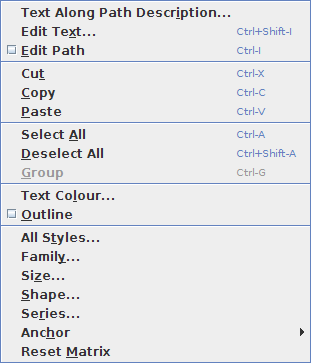
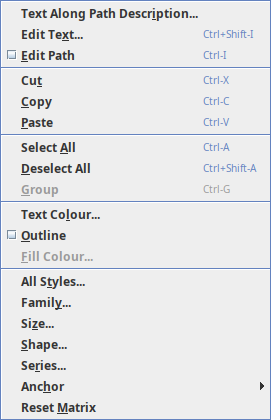
finished select popup menu section

Changed region(s): [[0.0, 0.0, 1.0, 1.0], [0.9446, 0.9091, 0.9742, 0.9394]]

diff --git a/src/doc/en/flowframtk-main.tex b/src/doc/en/flowframtk-main.tex
@@ -627,9 +627,9 @@ Cut selected \gls{object} &
 \mnemonictrail{edit.cut}
 \tabularnewline
 %
-\accelerator{edit.path.style.all} &
+\accelerator{edit.path.style.all_styles} &
 Edit the selected paths' line styles &
-\mnemonictrail{edit.path.style.all}
+\mnemonictrail{edit.path.style.all_styles}
 \tabularnewline
 %
 \accelerator{transform.scale} &
@@ -3621,14 +3621,66 @@ In select mode, you can also \gls{menuclick} to activate the
 selection \gls{popupmenu}. The contents of this menu vary according to
 what types of \glspl*{object} have been selected, if any.
 
+% COMMON POPUP MENU ITEMS
+
+\menudef{index.menu.selected}
+
+Common popup menu items are listed below.
+
+\menudef{menu.selected.object_description}
+
+To assign a description to the selected \gls{object}, use
+\menu{selected.object_description}. This is the same as using the
+\menu{edit.object_description} menu item from the main menu bar.
+This option will only be available if there is exactly one
+\gls{object} selected.
+
+\menudef{menu.selected.cut}
+
+Cut the selected \gls{object} (or \glspl{object}) to the clipboard.
+This is the same as using the \menu{edit.cut} menu item from the
+main menu bar. At least one \gls{object} needs to be selected.
+
+\menudef{menu.selected.copy}
+
+Copy the selected \gls{object} (or \glspl{object}) to the clipboard.
+This is the same as using the \menu{edit.copy} menu item from the
+main menu bar. At least one \gls{object} needs to be selected.
+
+\menudef{menu.selected.paste}
+
+Paste any \gls{object} or \glspl{object} from the clipboard onto the
+\gls{canvas}.
+This is the same as using the \menu{edit.paste} menu item from the
+main menu bar.
+
+\menudef{menu.selected.select_all}
+
+Select all \glspl{object}.
+This is the same as using the \menu{edit.select_all} menu item from the
+main menu bar.
+
+\menudef{menu.selected.deselect_all}
+
+Deselect all \glspl{object}.
+This is the same as using the \menu{edit.deselect_all} menu item from the
+main menu bar. There must be at least one \gls{object} selected.
+
+\menudef{menu.selected.group}
+
+Group all selected \glspl{object}. There must be more than one
+object selected.
+This is the same as using the \menu{transform.group} menu item from the
+main menu bar.
+
 % NONE SELECTED POPUP
 
-\menudef{index.none}
+\menudef{index.menu.none}
 
 \FloatFig
   {fig:selectpopups.none}
   {\includeimg{selectPopupNone}}
-  {Popup Menu when no Objects are Selected},
+  {Popup Menu When No Objects are Selected}
 
 If nothing is selected, there will only be a few options available
 (\figureref{fig:selectpopups.none}).
@@ -3648,7 +3700,10 @@ To select an \gls{object} by its description, use
 \menudef{menu.none.insert_bitmap}
 
 To insert a \gls{bitmap}, use \menu{none.insert_bitmap}. This
-is the same as using the \menu{bitmap.insert} menu item.
+is the same as using the \menu{bitmap.insert} menu item from the main menu bar.
+
+The \menu{selected.select_all} and \menu{selected.paste} common menu
+items are also available.
 
 % PATH POPUP
 
@@ -3657,23 +3712,16 @@ is the same as using the \menu{bitmap.insert} menu item.
 \FloatFig
   {fig:selectpopups.path}
   {\includeimg{selectPopupPath}}
-  {Popup Menu when only Paths are Selected},
+  {Popup Menu when only Paths are Selected}
 
-If a path is selected, the following options will be available
+In addition to the \gls{index.menu.selected},
+if a path is selected then the following options will be available
 (\figureref{fig:selectpopups.path}).
-
-\menudef{menu.selectedpath.path_description}
-
-To assign a description to the path, use
-\menu{selectedpath.path_description}. This is the same as using the
-\menu{edit.object_description} menu item from the main menu bar.
-This option won't be available if there is more than one
-path selected.
 
 \menudef{menu.selectedpath.edit}
 
 To edit the path, use \menu{selectedpath.edit}. This is the same as using
-the \menu{edit.edit.path.edit} menu item from the main menu bar.
+the \menu{edit.path.edit} menu item from the main menu bar.
 This option won't be available if there is more than one
 path selected.
 
@@ -3688,7 +3736,7 @@ path selected.
 
 To change the path's line \manmsg{colour}, use
 \menu{selectedpath.line_colour}. This is the same as using the
-\menu{edit.line_colour} menu item from the main menu bar.
+\menu{edit.path.line_colour} menu item from the main menu bar.
 
 \menudef{menu.selectedpath.fill_colour}
 
@@ -3708,11 +3756,11 @@ To change the line width for the selected paths,
 use \menu{selectedpath.linewidth}. This is the same as using the
 \menu{edit.path.style.linewidth} menu item from the main menu bar.
 
-\menudef{menu.selectedpath.pattern}
+\menudef{menu.selectedpath.dashpattern}
 
 To change the line pattern (dash or solid) for the selected paths,
-use \menu{selectedpath.pattern}. This is the same as using the
-\menu{edit.path.style.pattern} menu item from the main menu bar.
+use \menu{selectedpath.dashpattern}. This is the same as using the
+\menu{edit.path.style.dashpattern} menu item from the main menu bar.
 
 \menudef{menu.selectedpath.capstyle}
 
@@ -3766,18 +3814,11 @@ use \menu{selectedpath.marker.end}. This is the same as using the
 \FloatFig
   {fig:selectpopups.text}
   {\includeimg{selectPopupText}}
-  {Popup Menu when only Text-Areas are Selected},
+  {Popup Menu when only Text-Areas are Selected}
 
-If a \gls{textarea} is selected, the following options will be available
+In addition to the \gls{index.menu.selected},
+if a \gls{textarea} is selected then the following options will be available
 (\figureref{fig:selectpopups.text}).
-
-\menudef{menu.selectedtext.textarea_description}
-
-To assign a description to the \gls{textarea}, use
-\menu{selectedtext.textarea_description}. This is the same as using the
-\menu{edit.object_description} menu item from the main menu bar.
-This option won't be available if there is more than one
-\gls{textarea} selected.
 
 \menudef{menu.selectedtext.edit}
 
@@ -3849,6 +3890,8 @@ bar.
 To reset the \gls{textarea}['s] transformation matrix, use 
 \menu{selectedtext.reset}. This is the same as using the 
 \menu{transform.reset} menu item from the main menu bar.
+This option won't be available if there is more than one
+\gls{textarea} selected.
 
 % TEXT-PATH POPUP
 
@@ -3857,16 +3900,14 @@ To reset the \gls{textarea}['s] transformation matrix, use
 \FloatFig
   {fig:selectpopups.textpath}
   {\includeimg{selectPopupTextPath}}
-  {Popup Menu when only a Text-Path is Selected},
+  {Popup Menu when a Text-Path is Selected}
 
-If a text-path is selected, the following option will be available
-(\figureref{fig:selectpopups.textpath}).
 
-\menudef{menu.selectedtextpath.textpath_description}
-
-To assign a description to the text-path, use
-\menu{selectedtextpath.textpath_description}. This is the same as using the
-\menu{edit.object_description} menu item from the main menu bar.
+If a text-path has been selected then the
+\gls{index.menu.selectedtextpath} is very similar to the
+\gls{index.menu.selectedtext} but additionally has the
+\menu{selectedpath.edit} menu item to switch on edit mode for the
+underlying path.
 
 % BITMAP POPUP
 
@@ -3875,20 +3916,13 @@ To assign a description to the text-path, use
 \FloatFig
   {fig:selectpopups.bitmap}
   {\includeimg{selectPopupBitmap}}
-  {Popup Menu when only Bitmaps are Selected},
+  {Popup Menu when only Bitmaps are Selected}
 
-If a \gls{bitmap} is selected, the following options will be available
+In addition to the \gls{index.menu.selected},
+if a \gls{bitmap} is selected then the following options will be available
 (\figureref{fig:selectpopups.bitmap}).
 
-\menudef{menu.selectedbitmap.bitmap_description}
-
-To assign a description to the \gls{bitmap}, use
-\menu{selectedbitmap.bitmap_description}. This is the same as using the
-\menu{edit.object_description} menu item from the main menu bar.
-This option won't be available if there is more than one
-\gls{bitmap} selected.
-
-\menudef{menu.selectedtext.properties}
+\menudef{menu.selectedbitmap.properties}
 
 To edit the \gls{bitmap}['s] properties, use
 \menu{selectedbitmap.properties}. This is the same as using
@@ -3896,13 +3930,74 @@ the \menu{bitmap.properties} menu item from the main menu bar.
 This option won't be available if there is more than one
 \gls{bitmap} selected.
 
+\menudef{menu.selectedbitmap.reset}
 
-\FloatSubFigs{fig:selectpopups}
-{%
-  {fig:selectpopups.bitmap}{\includeimg{selectPopupBitmap}}{only \glspl{bitmap}},
-  {fig:selectpopups.other}{\includeimg{selectPopupOther}}{groups or mixture}
-}
-{Popup Menus in Select Mode Depend on What Objects Have Been Selected}
+To reset the \gls{bitmap}['s]
+transformation matrix, use \menu{selectedbitmap.reset}. This is the
+same as using the \menu{transform.reset} menu item from the main menu
+bar.
+
+\menudef{menu.selectedbitmap.insert}
+
+To insert another \gls{bitmap}, use \menu{selectedbitmap.insert}. This is the
+same as using the \menu{bitmap.insert} menu item from the main menu
+bar.
+
+% GROUPS OR MIXTURE
+
+\menudef{index.menu.selectedgroup}
+
+\FloatFig
+  {fig:selectpopups.other}
+  {\includeimg{selectPopupOther}}
+  {Popup Menu when Groups or Mixture are Selected}
+
+In addition to the \gls{index.menu.selected},
+if any \glspl{group} or mixture of \glspl{object} are selected 
+then following option will be available
+(\figureref{fig:selectpopups.other}).
+
+\menudef{menu.selected.ungroup}
+
+To ungroup any selected \glspl{group}, use
+\menu{selected.ungroup}. This is the same as using the
+\menu{transform.ungroup} menu item from the main menu bar.
+This option won't be available if there are no
+\glspl{group} selected.
+
+\menudef{menu.selected.path}
+
+If any \glspl{path} have been selected or if any selected
+\glspl{group} contain any \glspl{path}, then the
+\menu{selected.path} sub menu will be available. This has the same
+menu items as \gls{index.menu.selectedpath}.
+
+\menudef{menu.selected.textarea}
+
+If any \glspl{textarea} have been selected or if any selected
+\glspl{group} contain any \glspl{textarea}, then the
+\menu{selected.textarea} sub menu will be available. This has the same
+menu items as \gls{index.menu.selectedtext}.
+
+\menudef{menu.selected.fill_colour}
+
+If any \glspl{path} have been selected or if any outlined \glspl{textarea}
+have been selected, then the \menu{selected.fill_colour} menu item
+will be available. This is the same as using the
+\menu{edit.fill_colour} menu item from the main menu bar.
+
+\menudef{menu.selected.bitmap}
+
+The \menu{selected.bitmap} sub menu has the same
+menu items as \gls{index.menu.selectedbitmap}.
+
+\menudef{menu.selected.justify}
+
+To justify the contents of any selected \glspl{group}, use the
+\menu{selected.justify} sub menu. This is the same as using the
+\menu{transform.justify} sub menu from the main menu bar.
+This option won't be available if there are no
+\glspl{group} selected.
 
 
 \section{Navigation Menu}\label{sec:navigate}
